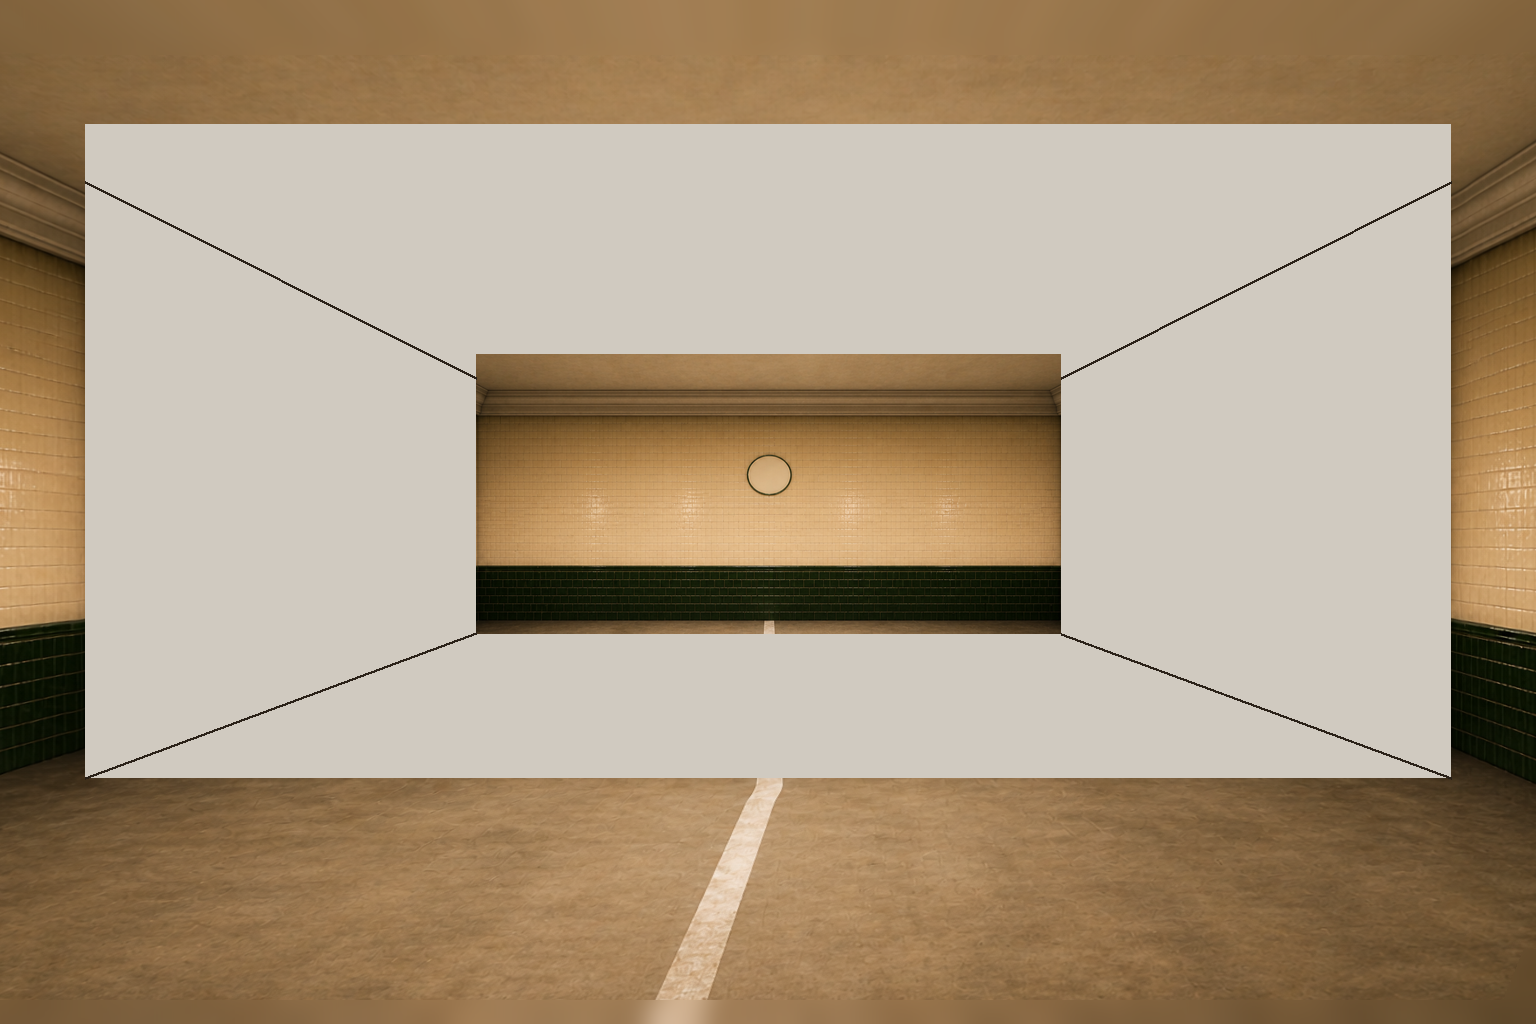
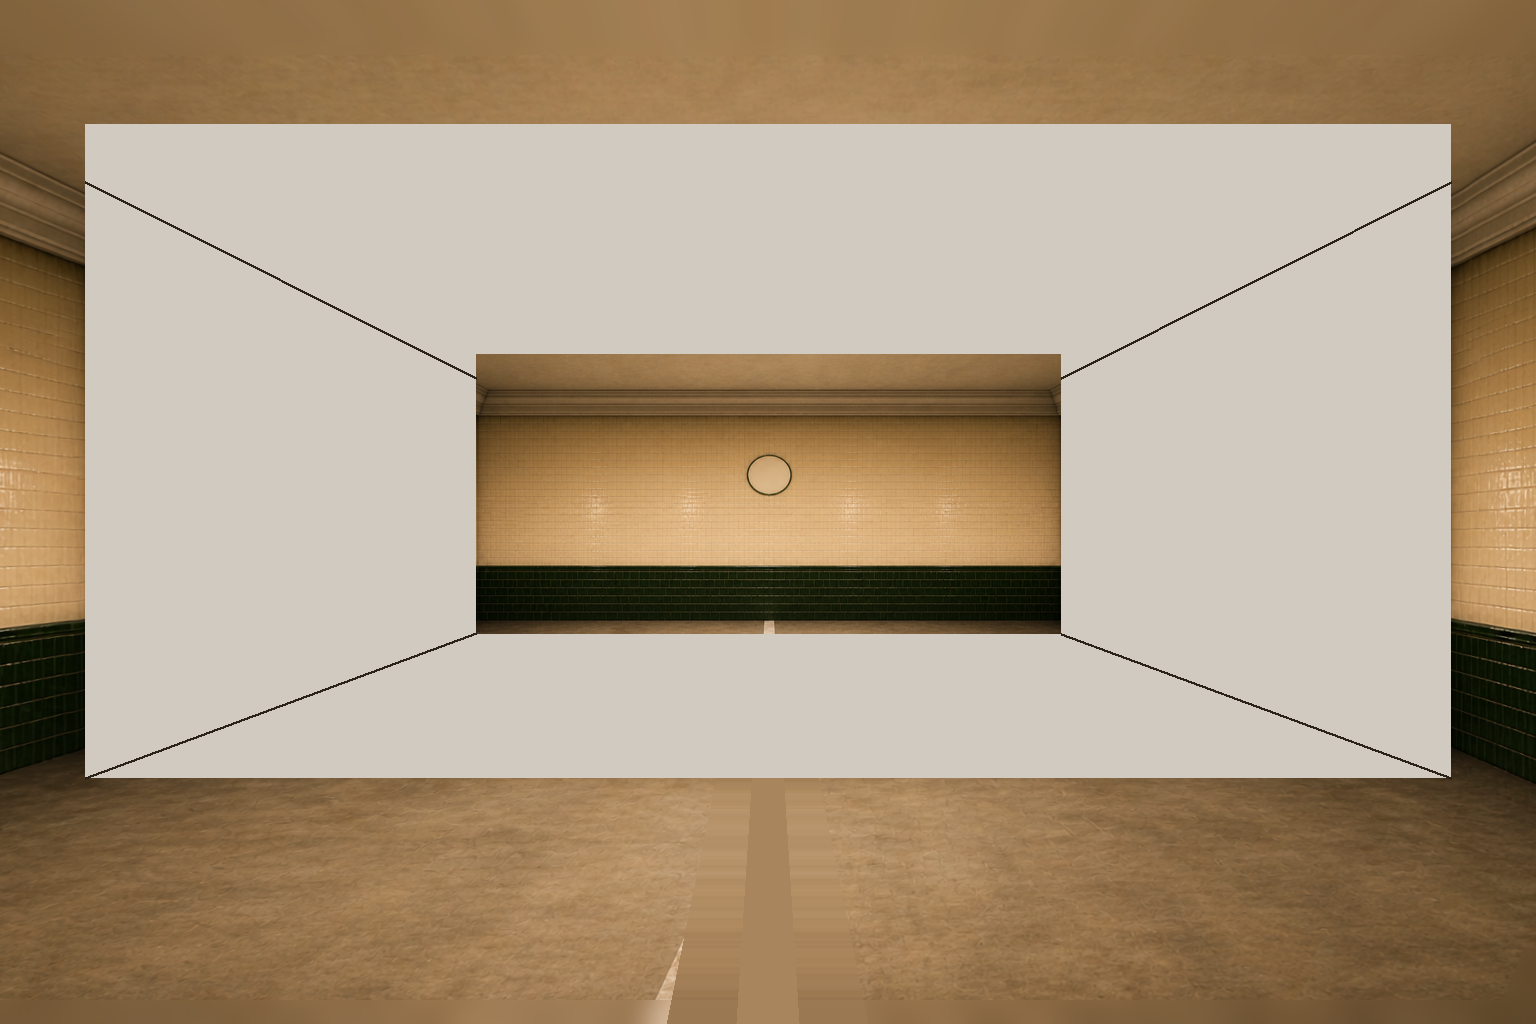
the guidance line redrawn straight in the grow draft (erase bent, draw the plan's own line: centred, perspective-tapered, sampled colour)
Claude-Session: https://claude.ai/code/session_01GC1AH66NQ1uRMsBFmesias

Changed region(s): [[0.4375, 0.75, 0.5312, 1.0]]

diff --git a/tools/deep-draft.py b/tools/deep-draft.py
@@ -478,6 +478,28 @@ def grow(args):
         rm[y0:y1, x0:x1] = False
         blur_src = np.asarray(Image.fromarray(a).filter(_IFR.GaussianBlur(12)))
         a[rm] = blur_src[rm]
+    # [Kabe, 2026-08-31] "The line isnt strait anymore": the base floor's
+    # guidance line is a PLAN feature (centred, fixed width) - its correct
+    # shape is computable. The bent painted line is erased (rows take their
+    # own floor median) and redrawn straight, perspective-tapered, in the
+    # line's own sampled colour.
+    if args.get("floor_line"):
+        fl = args["floor_line"]
+        vx_l, vy_l = float(fl["vx"]), float(fl["vy"])
+        eye_l, f_l, wm = float(fl["eye_m"]), float(fl["f"]), float(fl["width_m"])
+        ys0 = int(max(y1, vy_l + 8)); H2 = a.shape[0]
+        samp = a[H2-60:H2-10, int(vx_l)-20:int(vx_l)+20].reshape(-1,3)
+        lum = samp.astype(np.float32).mean(axis=1)
+        line_col = samp[lum > np.percentile(lum, 80)].mean(axis=0).astype(np.uint8)
+        for yy in range(ys0, H2):
+            half = max(2.0, (wm/2.0) * (yy - vy_l) / eye_l)
+            c0, c1 = int(vx_l - 3.2*half), int(vx_l + 3.2*half)
+            row = a[yy, max(0,c0):c1].astype(np.float32)
+            med = np.median(np.concatenate([a[yy, max(0,c0-40):max(1,c0)],
+                                            a[yy, c1:c1+40]]).astype(np.float32), axis=0)
+            a[yy, max(0,c0):c1] = med.astype(np.uint8)
+            d0, d1 = int(round(vx_l - half)), int(round(vx_l + half))
+            a[yy, d0:d1] = line_col
     # [Kabe, 2026-08-31] "Ceiling needs to be notably clean and artifact free
     # on the edge of box 1": lamp rods crossing the cut leave dark stubs on
     # the shell's ceiling band - wiped deterministically: within the hole's
